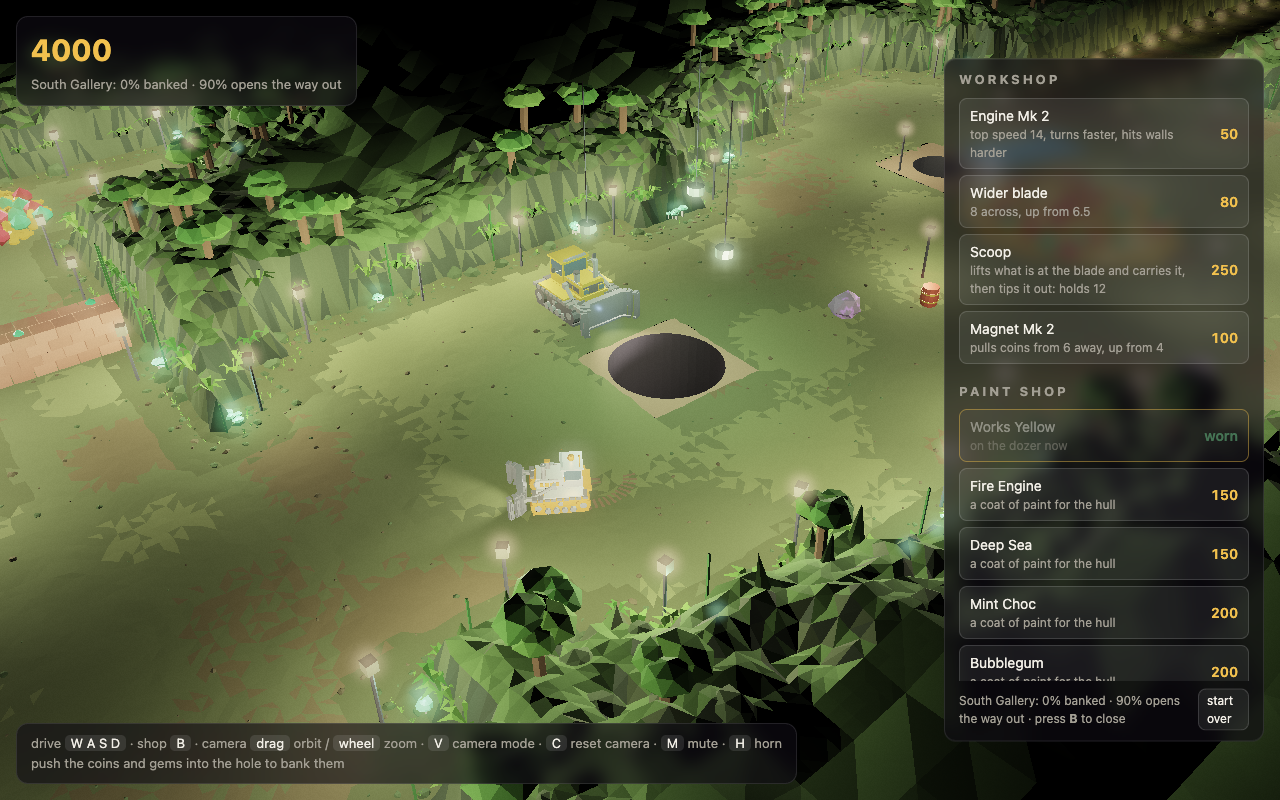
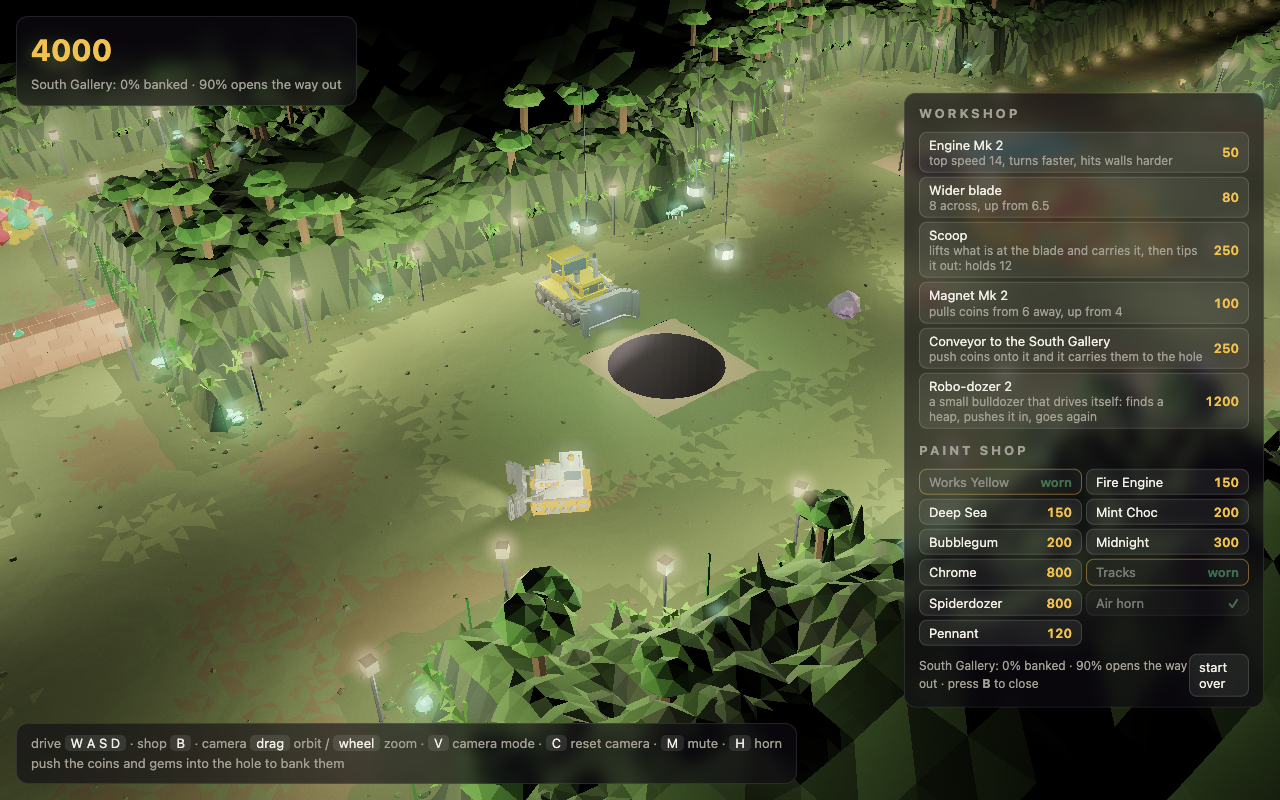
The whole workshop on the screen at a desk, with nothing to scroll
With the scoop's row the workshop's list scrolled past its fourth, and the
conveyor and the drones were under the fold. At a desk its rows are now
smaller, the panel a little wider so fewer second lines wrap, and neither
list has a scroll box of its own. The paint shop stands two to a line with
a name and a price: its second lines, which all said much the same, are
left to the tooltip. Only a window too short for the whole panel scrolls,
and then as one panel. A phone is as it was, one list above its buttons.

A smoke test opens the workshop in the east gallery, whose two belts make
it the longest, and holds every row on the screen, nothing scrolling and no
row under 24 px. workshop.png is written again and was looked at; the
phone's two did not move. The full check is green.

Changed region(s): [[0.6875, 0.0625, 1.0, 0.9375], [0.9375, 0.5, 0.9688, 0.5625]]

diff --git a/smoke/game.spec.ts b/smoke/game.spec.ts
@@ -221,6 +221,46 @@ test('opens and closes the workshop', async ({ page }, info) => {
   expect(problems).toEqual([]);
 });
 
+test('shows the whole workshop at a desk with nothing to scroll, in the cave with the most to sell', async ({
+  page,
+}) => {
+  const problems = watch(page);
+  // the east gallery has two belts, so its workshop is the longest there is
+  await start(page, { save: { cave: 'east-gallery' } });
+  await page.keyboard.press('b');
+  const shop = page.locator('#shop');
+  await expect(shop).toBeVisible();
+  const seen = await page.evaluate(() => {
+    const shop = document.getElementById('shop')!;
+    const scrolls = (e: Element) => e.scrollHeight > e.clientHeight + 1;
+    const rows = Array.from(shop.querySelectorAll('.rows button')).map((b) => {
+      const r = b.getBoundingClientRect();
+      return { id: (b as HTMLElement).dataset.id, top: r.top, bottom: r.bottom, height: r.height };
+    });
+    return {
+      rows,
+      scrolling: [shop, ...Array.from(shop.querySelectorAll('.rows'))].filter(scrolls).length,
+      panel: shop.getBoundingClientRect().toJSON() as { top: number; bottom: number },
+      height: innerHeight,
+    };
+  });
+  expect(
+    seen.rows.map((r) => r.id).filter((id) => /^(engine|blade|scoop|magnet|drone|belt:)/.test(id ?? '')),
+    'everything the workshop sells here',
+  ).toHaveLength(7);
+  expect(seen.rows.length, 'and the paint shop under it').toBeGreaterThan(7);
+  expect(seen.scrolling, 'no list of it scrolls, and nor does the panel').toBe(0);
+  expect(seen.panel.top, 'the panel is on the screen').toBeGreaterThanOrEqual(0);
+  expect(seen.panel.bottom).toBeLessThanOrEqual(seen.height);
+  for (const r of seen.rows) {
+    expect(r.top, `${r.id} is on the screen`).toBeGreaterThanOrEqual(seen.panel.top);
+    expect(r.bottom, `${r.id} is on the screen`).toBeLessThanOrEqual(seen.panel.bottom);
+    // small, but still something a pointer can hit
+    expect(r.height, `${r.id} is big enough to press`).toBeGreaterThanOrEqual(24);
+  }
+  expect(problems).toEqual([]);
+});
+
 test('keeps the game where it was across a reload', async ({ page }) => {
   const problems = watch(page);
   await start(page);

diff --git a/index.html b/index.html
@@ -209,8 +209,6 @@
   #shop .rows {
     display: grid;
     gap: 6px;
-    max-height: 70vh;
-    overflow: auto;
   }
   #shop button {
     font: inherit;
@@ -252,8 +250,31 @@
   #shop h2.later {
     margin-top: 12px;
   }
-  #shop .rows {
-    max-height: 34vh;
+  /* At a desk the whole workshop is on the screen at once, with nothing to scroll: a list that scrolled hid
+     the conveyor and the drones under the fold. Its rows are small, and the paint shop's, which all say much
+     the same under their names, stand two to a line with those words left to the tooltip. Only a window
+     too short for even that scrolls, and then as one panel. */
+  body:not(.touch) #shop {
+    width: 360px;
+    max-height: calc(100vh - 24px);
+    overflow: auto;
+  }
+  body:not(.touch) #shop .rows {
+    gap: 4px;
+  }
+  body:not(.touch) #shop button {
+    padding: 4px 9px;
+    font-size: 13px;
+    line-height: 1.25;
+  }
+  body:not(.touch) #shop button small {
+    font-size: 12px;
+  }
+  body:not(.touch) #shop .rows.cosmetics {
+    grid-template-columns: 1fr 1fr;
+  }
+  body:not(.touch) #shop .rows.cosmetics small {
+    display: none;
   }
   #shop .foot {
     margin-top: 8px;

diff --git a/src/economy.ts b/src/economy.ts
@@ -794,6 +794,8 @@ export function renderShop(rows: HTMLElement, economy: Economy, offers = economy
     btn.className = o.active ? 'owned active' : o.owned ? 'owned' : '';
     const cost = o.active ? 'worn' : o.owned ? (wearable ? 'wear' : '✓') : !o.available ? 'locked' : `${o.cost}`;
     btn.innerHTML = `<span>${o.title}<small>${o.sub}</small></span><span class="cost">${cost}</span>`;
+    // the paint shop's rows are drawn small at a desk, their second line left out: it is here for the pointer to ask for
+    if (rows.classList.contains('cosmetics')) btn.title = o.sub;
   });
   while (rows.children.length > offers.length) rows.lastChild!.remove();
 }
